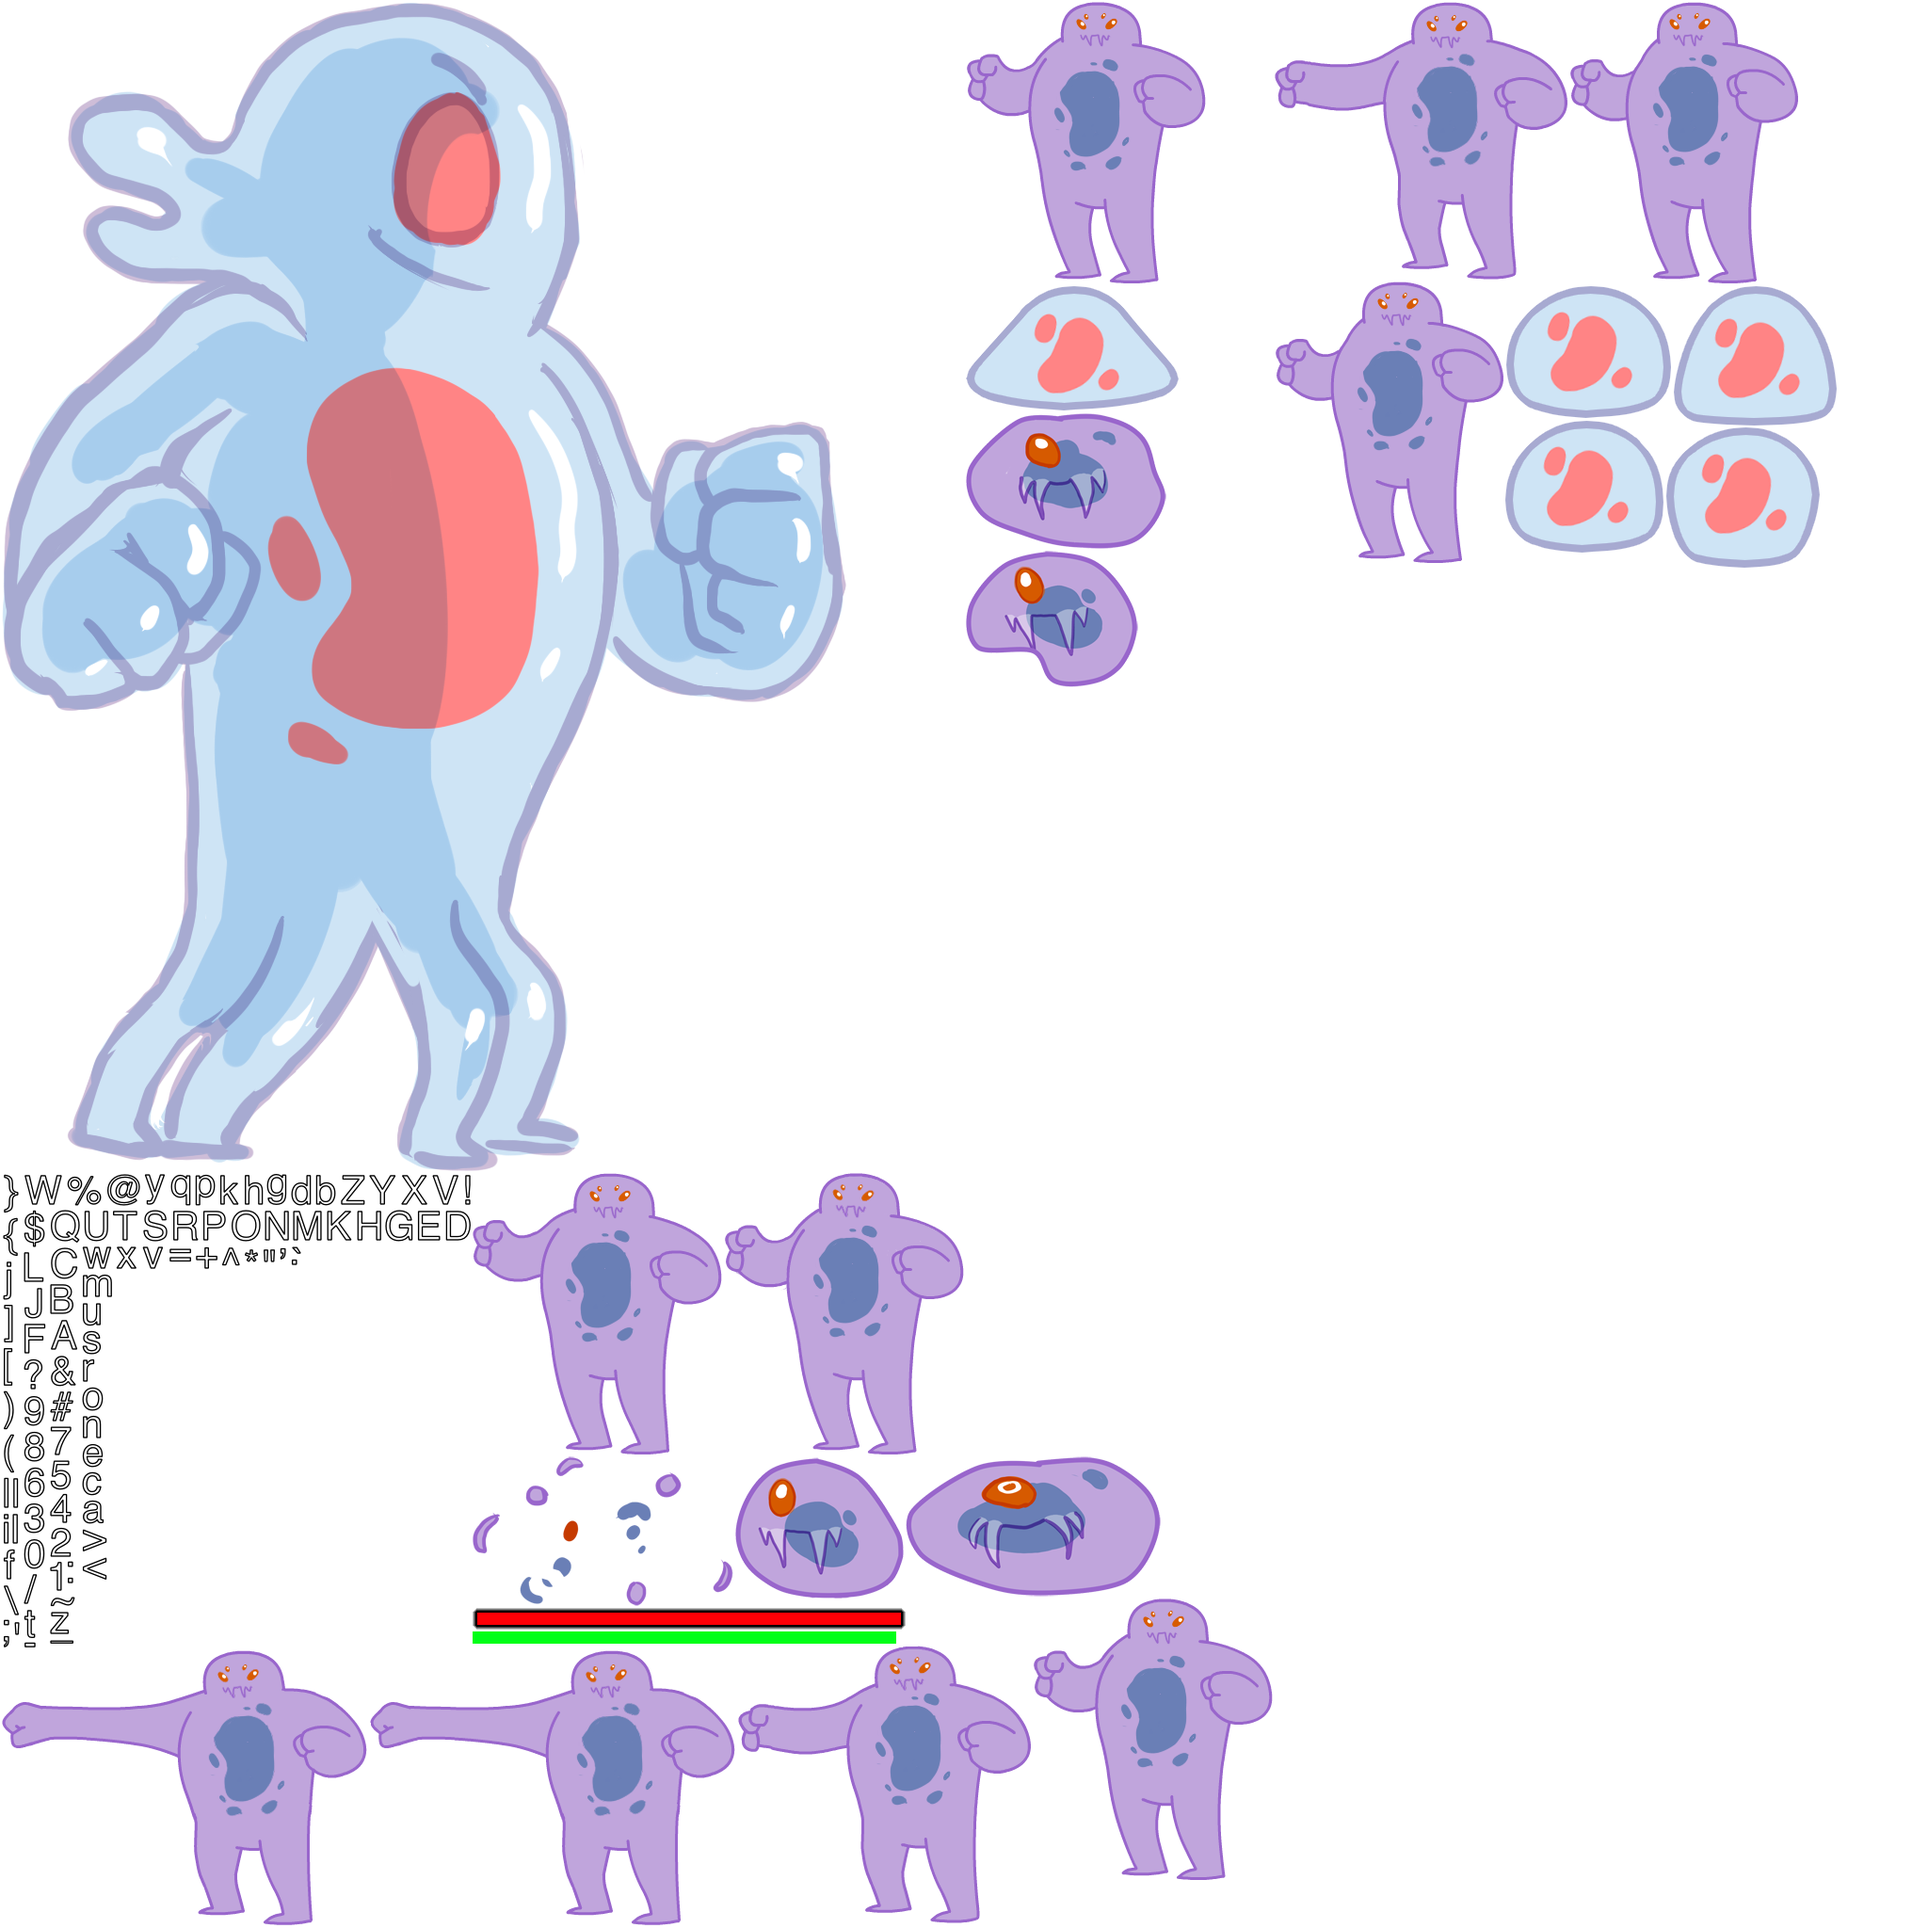
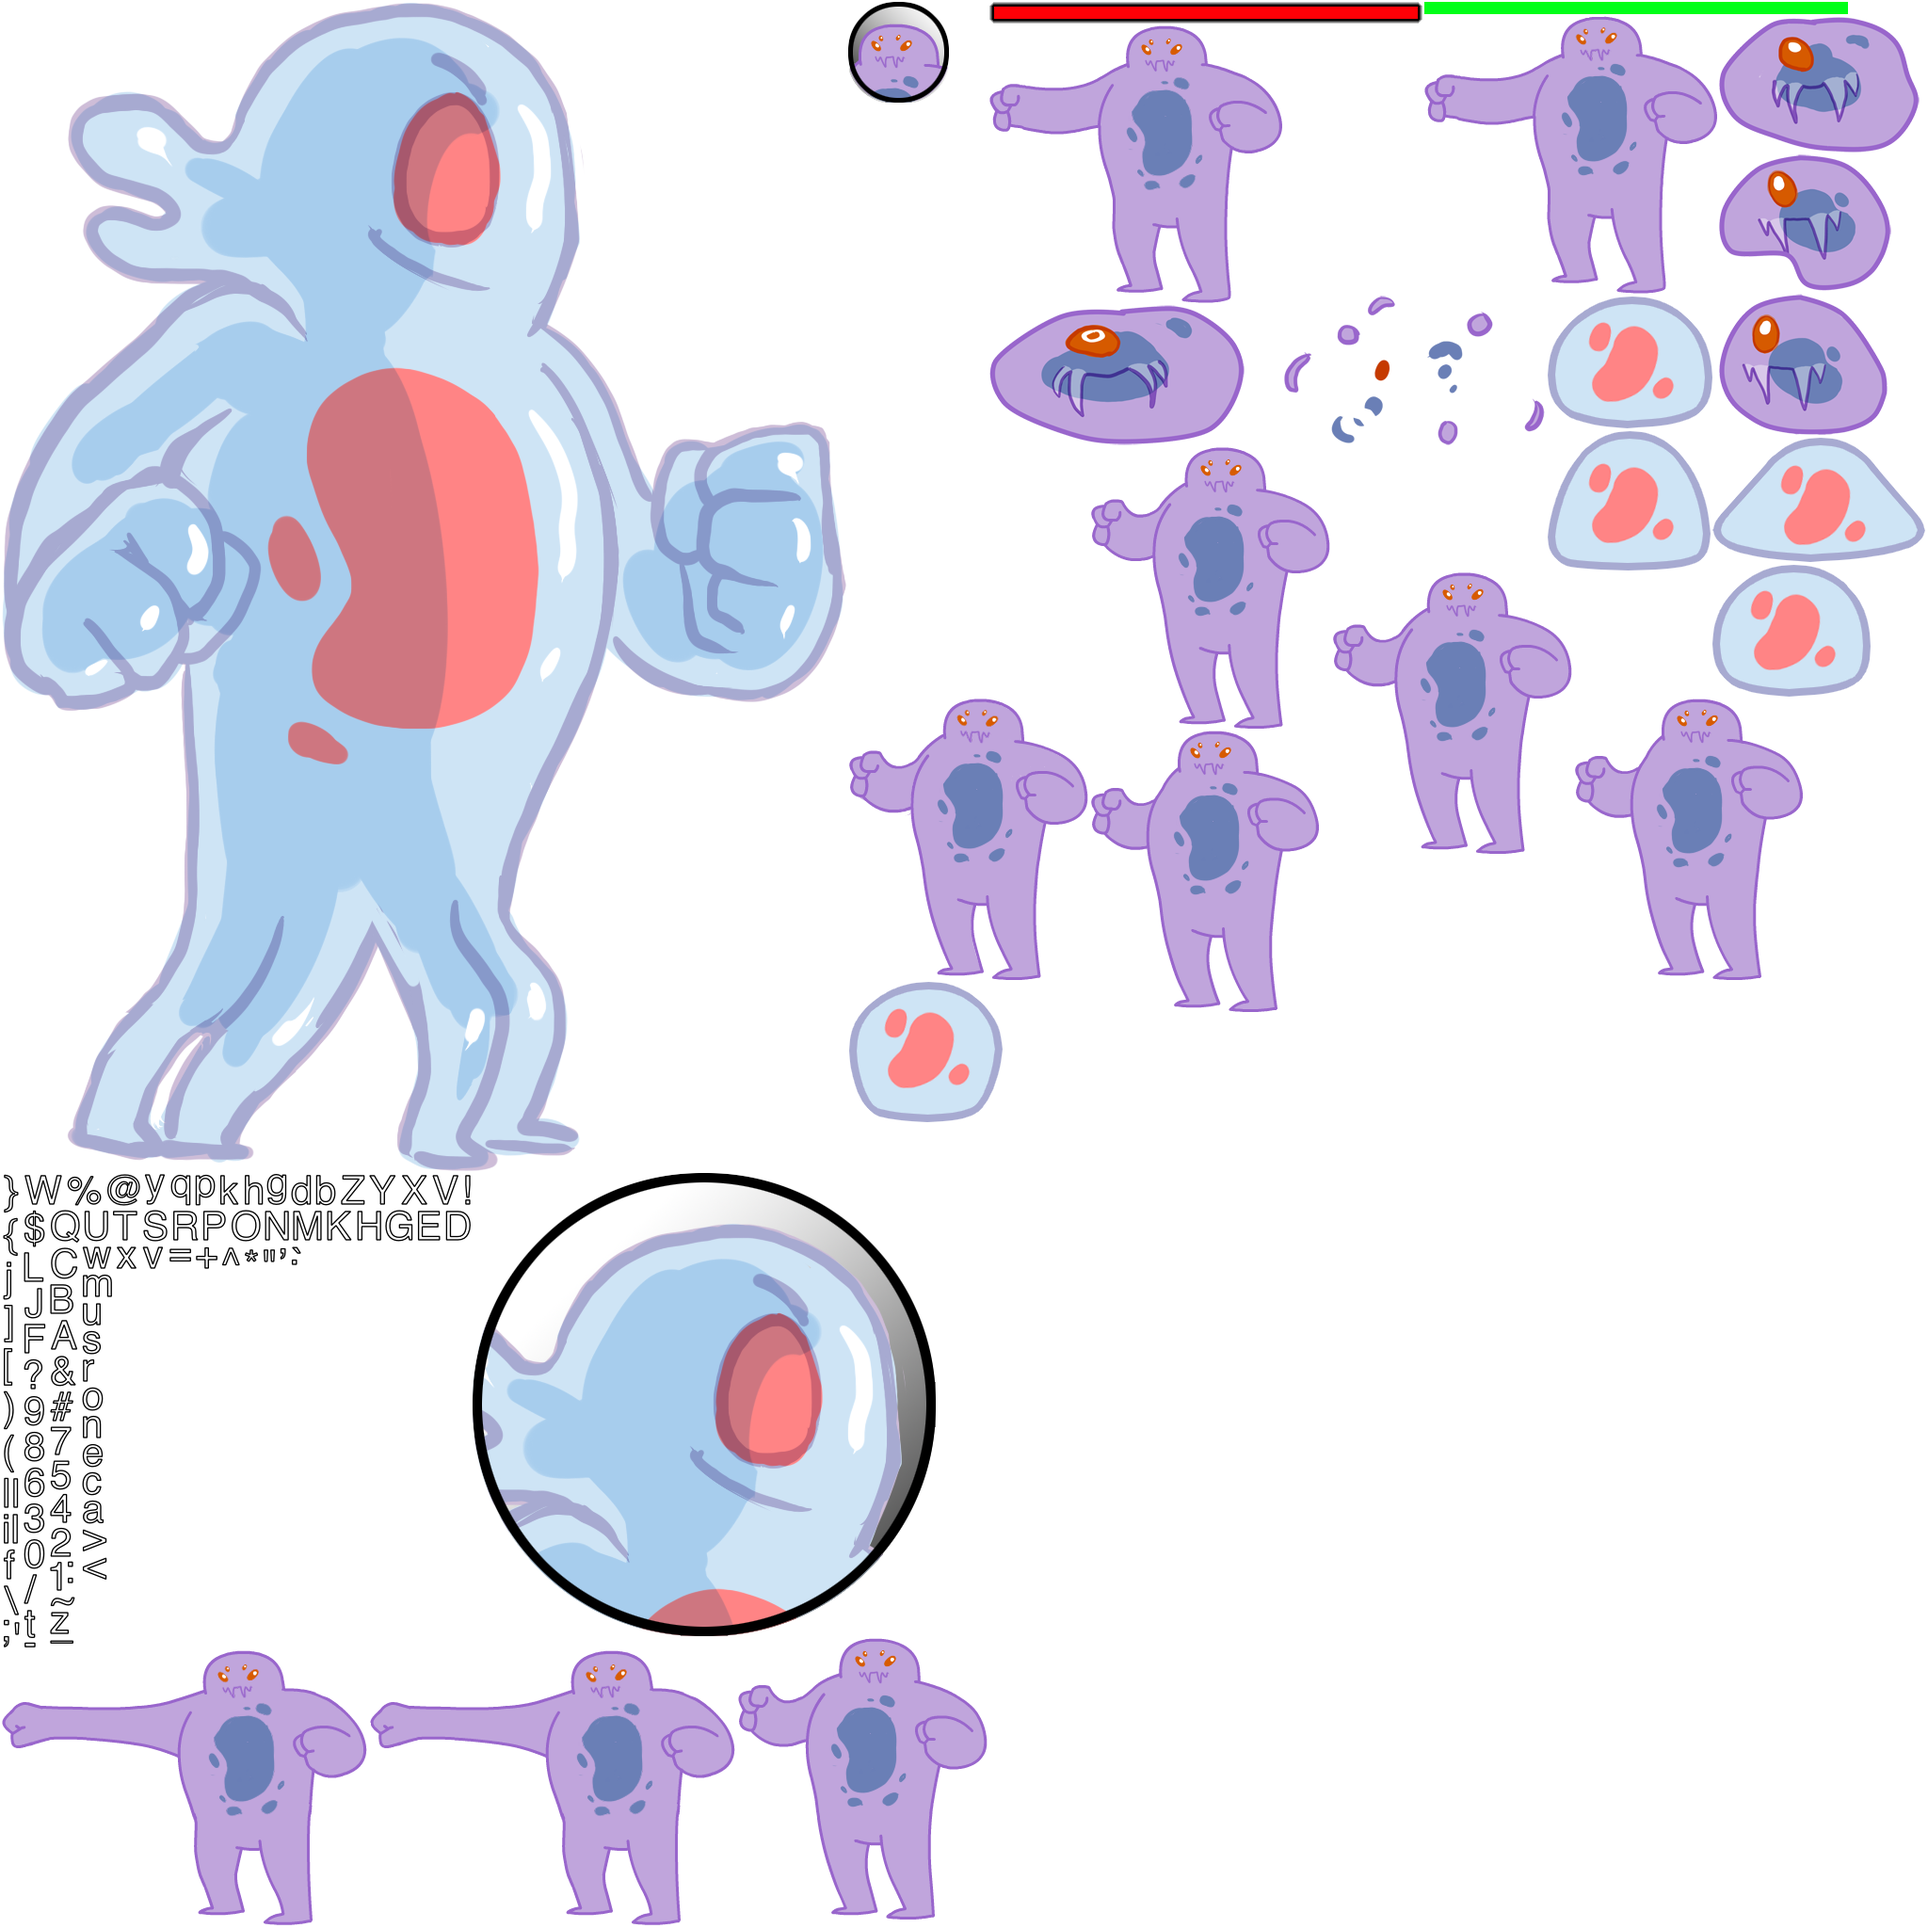
Added player head shots next to the health bars to indicate which health bar belongs to which character.

Changed region(s): [[0.2188, 0.0, 1.0, 1.0]]

diff --git a/immunity/Assets/Scripts/Combat/CombatPage.cs b/immunity/Assets/Scripts/Combat/CombatPage.cs
@@ -52,17 +52,24 @@ public class CombatPage : ImmunityPage, FMultiTouchableInterface {
 		AddChild(levelMid_);
 		AddChild(levelFore_);
 		
+		FSprite enemy_headshot = new FSprite("punchy_headshot");
+		enemy_headshot.x = Futile.screen.halfWidth - enemy_headshot.width/2.0f - 50.0f;
+		enemy_headshot.y = Futile.screen.halfHeight - enemy_headshot.height/2.0f - 50.0f;
 		enemy_healthbar_ = new HealthBar();
 		enemy_healthbar_.scaleX = -.8f;
-		enemy_healthbar_.x = Futile.screen.halfWidth - 50.0f;
-		enemy_healthbar_.y = Futile.screen.halfHeight - enemy_healthbar_.height/2.0f - 50.0f;
+		enemy_healthbar_.x = enemy_headshot.x - enemy_headshot.width/2.0f - 25.0f;
+		enemy_healthbar_.y = enemy_headshot.y;
 		enemy_ = new EnemyCharacter(enemy_healthbar_);
 		AddChild(enemy_);
 		
+		FSprite player_headshot = new FSprite("hero_headshot");
+		player_headshot.scale = .2f;
+		player_headshot.x = -Futile.screen.halfWidth + player_headshot.width/2.0f + 50.0f;
+		player_headshot.y = Futile.screen.halfHeight - player_headshot.height/2.0f - 50.0f;
 		player_healthbar = new HealthBar();
 		player_healthbar.scaleX = .8f;
-		player_healthbar.x = -Futile.screen.halfWidth + 50.0f;
-		player_healthbar.y = Futile.screen.halfHeight - player_healthbar.height/2.0f - 50.0f;
+		player_healthbar.x = player_headshot.x + player_headshot.width/2.0f + 25.0f;
+		player_healthbar.y = player_headshot.y;
 		player_ = new PlayerCharacter(player_healthbar);
 		AddChild(player_);
 		
@@ -74,8 +81,10 @@ public class CombatPage : ImmunityPage, FMultiTouchableInterface {
 		
 		dyingBacteriaHolder_ = new FContainer();
 		AddChild(dyingBacteriaHolder_);
-				
+		
+		AddChild(player_headshot);
 		AddChild(player_healthbar);
+		AddChild(enemy_headshot);
 		AddChild(enemy_healthbar_);
 	}
 	
